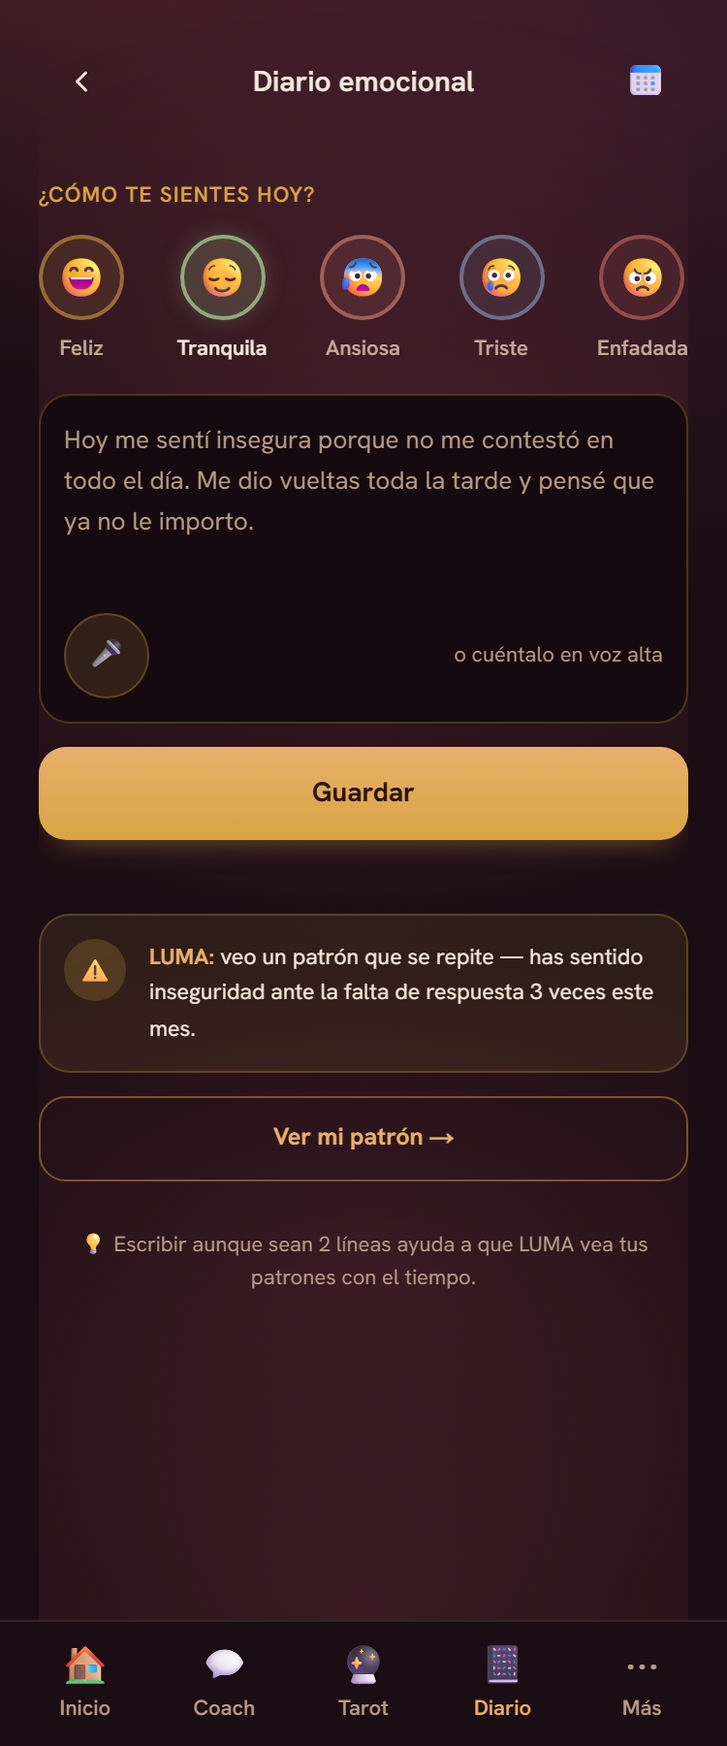
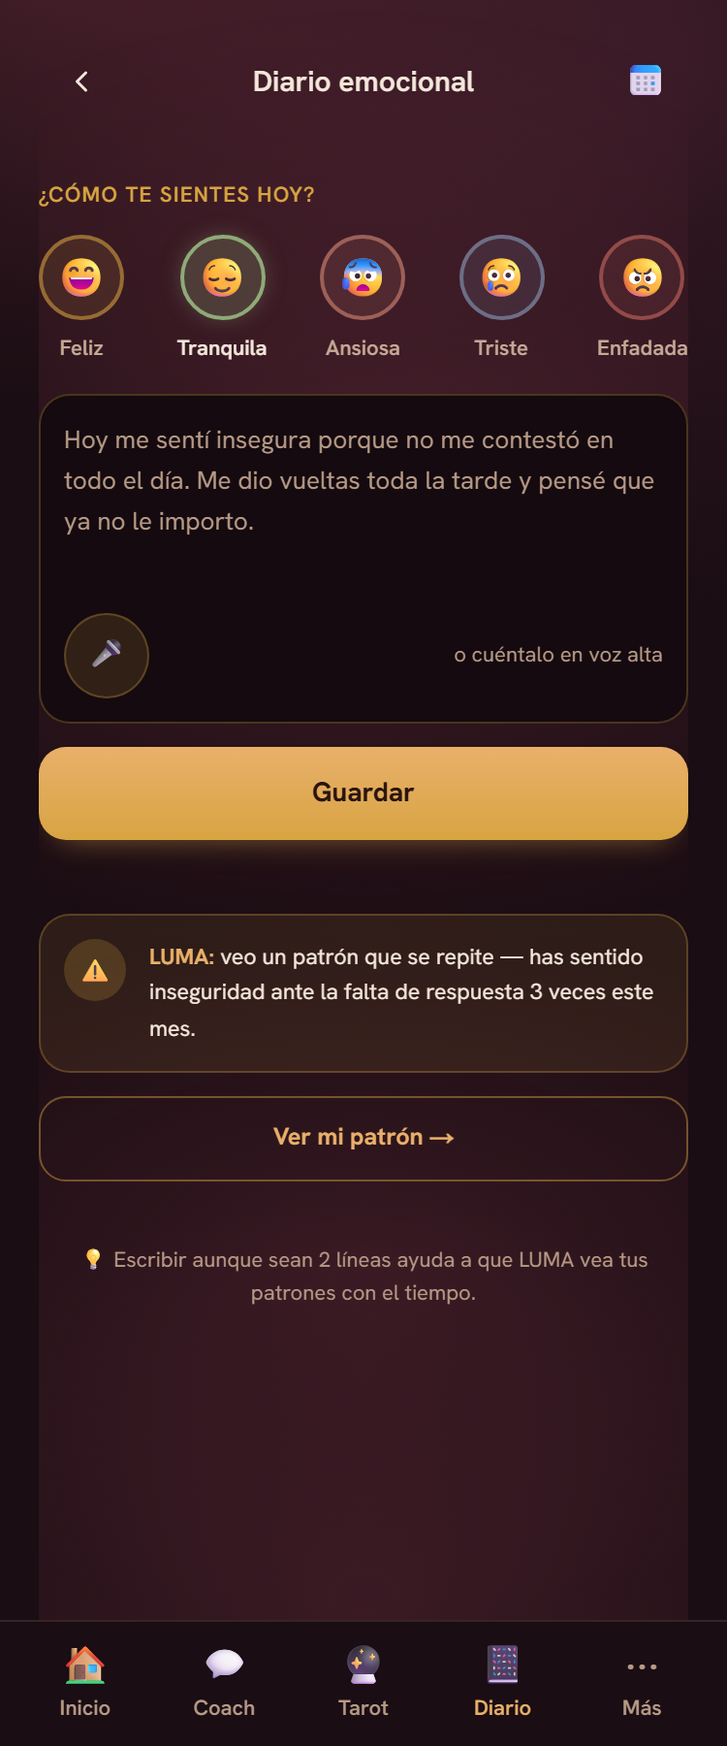
fix(sesion-5): coach/tarot/diario — ronda 3-4 de correcciones
Coach: agrega el bloom de profundidad que faltaba en la franja
inferior (pills/composer/nav), mismo patron ya usado en Inicio y
Descifra.

Tarot: agrega "recordar tu ultima tirada" (localStorage) con un chip
"Repetir tu ultima tirada: X" arriba de la lista — resuelve el hueco
de flexibilidad/atajos que el revisor senalo como el verdadero techo
de la pantalla tras 3 rondas de solo ajustes visuales.

Diario: persiste de verdad la entrada guardada en localStorage (antes
"Guardado" solo cambiaba el texto del boton sin guardar nada), anima
el check con un cross-fade, y alinea el espaciado del tip final a la
escala de 4/8/12/16/24/32.

Changed region(s): [[0.276, 0.7156, 0.7053, 0.7467], [0.736, 0.6844, 0.8893, 0.7467], [0.1227, 0.6844, 0.2453, 0.7467]]

diff --git a/app/app/(tabs)/tarot/page.tsx b/app/app/(tabs)/tarot/page.tsx
@@ -4,13 +4,15 @@
 // 5 tiradas; tocar una revela la carta + lectura in situ (acordeón) — sin inventar
 // una ruta nueva no aprobada en el mockup. Reutiliza CartaSacerdotisa con props.
 
-import { useRef, useState } from 'react';
+import { useEffect, useRef, useState } from 'react';
 import { motion, AnimatePresence } from 'motion/react';
 import { ScreenHeader } from '@/components/app/ScreenHeader';
 import { AppLinkButton } from '@/components/app/AppButton';
 import { CartaSacerdotisa } from '@/components/app/HeroDemoLuma';
 import { TIRADAS_TAROT, LECTURAS_TAROT } from '@/lib/seed-datos';
 import { guardarEntradaPendiente } from '@/lib/almacenamiento-diario';
+
+const CLAVE_ULTIMA_TIRADA = 'luma_ultima_tirada';
 
 const contenedor = {
   hidden: {},
@@ -23,12 +25,26 @@ const item = {
 
 export default function TarotPage() {
   const [abierta, setAbierta] = useState<string | null>(null);
+  const [ultima, setUltima] = useState<string | null>(null);
   const panelRef = useRef<HTMLDivElement | null>(null);
+
+  useEffect(() => {
+    try {
+      setUltima(window.localStorage.getItem(CLAVE_ULTIMA_TIRADA));
+    } catch {
+      // localStorage puede fallar (modo privado, cuota) — sin acceso rápido, no bloquea el flujo.
+    }
+  }, []);
 
   function alternar(id: string) {
     const abrir = abierta !== id;
     setAbierta(abrir ? id : null);
     if (abrir) {
+      try {
+        window.localStorage.setItem(CLAVE_ULTIMA_TIRADA, id);
+      } catch {
+        // ver nota de arriba.
+      }
       window.setTimeout(() => panelRef.current?.scrollIntoView({ behavior: 'smooth', block: 'center' }), 320);
     }
   }
@@ -48,6 +64,21 @@ export default function TarotPage() {
       <h1 className="mt-1 text-[20px] font-semibold text-[var(--text-primary)] [font-family:var(--font-display)]">
         ¿Qué tipo de tirada necesitas?
       </h1>
+
+      {ultima && LECTURAS_TAROT[ultima] && (
+        <button
+          type="button"
+          onClick={() => alternar(ultima)}
+          className="mt-3 flex items-center justify-between rounded-[var(--radius-card)] border border-[color-mix(in_oklab,var(--accent)_35%,transparent)] bg-[color-mix(in_oklab,var(--accent)_10%,transparent)] px-4 py-3 text-left"
+        >
+          <span className="text-[12.5px] font-semibold text-[var(--accent-lite)]">
+            Repetir tu última tirada: {TIRADAS_TAROT.find((t) => t.id === ultima)?.nombre}
+          </span>
+          <span aria-hidden="true" className="text-[var(--accent-lite)]">
+            →
+          </span>
+        </button>
+      )}
 
       <motion.div variants={contenedor} initial="hidden" animate="visible" className="mt-4 flex flex-col">
         {TIRADAS_TAROT.map((t, i) => {

diff --git a/app/app/(tabs)/diario/page.tsx b/app/app/(tabs)/diario/page.tsx
@@ -45,6 +45,11 @@ export default function DiarioPage() {
       window.setTimeout(() => setErrorVacio(false), 2200);
       return;
     }
+    try {
+      window.localStorage.setItem('luma_diario_ultima_entrada', JSON.stringify({ texto, animo, fecha: Date.now() }));
+    } catch {
+      // localStorage puede fallar (modo privado, cuota) — no bloquea el flujo.
+    }
     setGuardado(true);
     window.setTimeout(() => setGuardado(false), 2200);
   }
@@ -139,7 +144,19 @@ export default function DiarioPage() {
         </motion.div>
 
         <motion.div variants={item} className="mt-3">
-          <AppButton onClick={guardar}>{guardado ? 'Guardado ✓' : 'Guardar'}</AppButton>
+          <AppButton onClick={guardar}>
+            <AnimatePresence mode="wait" initial={false}>
+              <motion.span
+                key={guardado ? 'ok' : 'guardar'}
+                initial={{ opacity: 0, scale: 0.9 }}
+                animate={{ opacity: 1, scale: 1 }}
+                exit={{ opacity: 0 }}
+                transition={{ duration: 0.15 }}
+              >
+                {guardado ? 'Guardado ✓' : 'Guardar'}
+              </motion.span>
+            </AnimatePresence>
+          </AppButton>
           <div className="mt-1.5 h-4 text-center">
             <AnimatePresence>
               {errorVacio && (
@@ -175,7 +192,7 @@ export default function DiarioPage() {
           Ver mi patrón →
         </motion.button>
 
-        <motion.p variants={item} className="mt-6 text-center text-[11px] leading-relaxed text-[var(--text-tertiary)]">
+        <motion.p variants={item} className="mt-8 text-center text-[11px] leading-relaxed text-[var(--text-tertiary)]">
           💡 Escribir aunque sean 2 líneas ayuda a que LUMA vea tus patrones con el tiempo.
         </motion.p>
       </motion.div>

diff --git a/app/app/(tabs)/coach/page.tsx b/app/app/(tabs)/coach/page.tsx
@@ -69,7 +69,16 @@ export default function CoachPage() {
   }
 
   return (
-    <div className="flex min-h-0 flex-1 flex-col pb-3 pt-3">
+    <div className="relative flex min-h-0 flex-1 flex-col pb-3 pt-3">
+      <div
+        aria-hidden="true"
+        className="pointer-events-none absolute inset-0 -z-10"
+        style={{
+          background:
+            'radial-gradient(500px 36dvh at 50% 22%, color-mix(in oklab, var(--bloom-vino) 42%, transparent), transparent 66%), ' +
+            'radial-gradient(520px 40dvh at 50% 96%, color-mix(in oklab, var(--bloom-vino) 46%, transparent), transparent 72%)',
+        }}
+      />
       <div className="flex shrink-0 items-center justify-between py-2">
         <Link href="/app" aria-label="Volver" className="flex size-11 shrink-0 items-center justify-center text-[var(--text-primary)]">
           <svg width="18" height="18" viewBox="0 0 24 24" fill="none" stroke="currentColor" strokeWidth="2" strokeLinecap="round" strokeLinejoin="round" aria-hidden="true">

diff --git a/docs/revisiones/diario-veredicto.md b/docs/revisiones/diario-veredicto.md
@@ -122,3 +122,86 @@ Descifra ya resolvió" antes de considerar el cierre por criterio propio. Usabil
 (25→30) y Craft subió 3 (11→14): salto sano para una 2ª ronda, pero ambos siguen lejos del gate
 (36/40 y 16/20) — recomendable una 3ª ronda dirigida a los 5 puntos de arriba antes de evaluar
 cierre por criterio propio.
+
+---
+
+# VEREDICTO revisor-visual — Diario emocional (3ª ronda)
+Fecha: 2026-09-12 00:00
+Screenshot: docs/revisiones/diario-375.png
+Usabilidad: 34/40  (detalle: h1:3 h2:4 h3:3 h4:4 h5:3 h6:4 h7:3 h8:3 h9:4 h10:3)
+Craft: 15/20  (detalle: jerarquía:3 profundidad:3 identidad:3 movimiento:3 encaje:3)
+Copy (si vende): N-A
+Fidelidad (si hubo referencia): N-A
+Veredicto: NO LISTA
+
+Verificación de los 5 defectos de la 2ª ronda (los 5, uno por uno, en código + screenshot):
+1. `disabled={!texto.trim()}` en "Guardar" → CORREGIDO. `AppButton` en `diario/page.tsx` línea 142
+   ya NO recibe prop `disabled`; `guardar()` (líneas 42-50) valida y muestra un hint inline
+   ("Escribe algo antes de guardar", con `AnimatePresence`, líneas 143-151) sin apagar el botón.
+   Verificado también en `AppButton.tsx`: sin `disabled`, `whileTap={{ scale: 0.97 }}` queda activo
+   y sin `opacity-50` — el mismo patrón que ya usa `descifrar/page.tsx`. Se confirma además que el
+   CTA cumple ahora las 4 anclas del "CTA héroe vivo": contraste alto (oro sobre vino), `whileTap`
+   definido, nunca disabled por defecto, área táctil `h-[48px]` + ancho completo.
+2. Radial intermedio ~78% → CORREGIDO. Línea 65: `radial-gradient(480px 30dvh at 50% 78%,
+   color-mix(in oklab, var(--bloom-vino) 36%, transparent), transparent 68%)` — ahora hay 3 radiales
+   (30% / 78% / 100%), mismo patrón que `descifrar/page.tsx`. En el screenshot la franja bajo "Ver
+   mi patrón →" ya no se lee como un fill plano aislado.
+3. `<ScreenHeader>` fuera del stagger → CORREGIDO. Líneas 71-86: envuelto en
+   `<motion.div variants={item}>` dentro del mismo `motion.div variants={contenedor}` (línea 70)
+   que el resto de bloques — un solo sistema de animación para toda la pantalla.
+4. Atajo Ctrl/Cmd+Enter → CORREGIDO. Líneas 121-123, `onKeyDown` en el `textarea`:
+   `if ((e.metaKey || e.ctrlKey) && e.key === 'Enter') guardar();` — mismo patrón que Descifra.
+5. Tip contextual bajo "Ver mi patrón →" → CORREGIDO. Línea 178-180: `motion.p` con
+   "💡 Escribir aunque sean 2 líneas ayuda a que LUMA vea tus patrones con el tiempo." dentro del
+   stagger general.
+
+Los 5 defectos de la 2ª ronda están genuinamente cerrados, verificados línea por línea en el código
+actual, sin regresiones nuevas detectables en el resto de la pantalla (mood picker, puente
+Tarot→Diario, avisos "Próximamente" del micrófono/calendario/patrón siguen intactos y funcionando).
+
+Defectos remanentes (nuevos, de esta 3ª ronda — ninguno es una regresión de los 5 anteriores):
+1. [Franja final, entre el tip 💡 y la bottom nav, aprox. último 15-20% de la altura de pantalla]
+   Sigue siendo el tramo con menos "trabajo" visual: el radial final de Diario
+   (`480px 34dvh at 50% 100%`, 40% de mezcla) es más angosto que el de Descifra
+   (`600px 24dvh at 50% 100%`) y el tip de una línea no alcanza a ocupar el espacio — se percibe
+   aire sobrante, ya no muerto (tiene color y un mensaje) pero sí subutilizado → agregar un elemento
+   más de valor ahí (ej. contador "3 registros esta semana") o comprimir el espaciado superior para
+   que el contenido llegue más abajo.
+2. [Heurística 1/5, botón "Guardar" en éxito] `guardar()` (líneas 42-50) no persiste el texto en
+   ningún almacenamiento — solo cambia el label a "Guardado ✓" por 2200ms vía `setGuardado`. No
+   existe una función equivalente a `guardarEntradaPendiente` para las entradas del diario mismo
+   (ese helper en `lib/almacenamiento-diario.ts` es solo el puente Tarot→Diario). Si el usuario
+   navega a otra pestaña y vuelve, la entrada "guardada" desapareció sin aviso de que era temporal.
+   El comentario de cabecera del archivo (línea 5) documenta que el cálculo de patrones real llega
+   con backend en Sesión 6, lo cual es una decisión de fase legítima — pero mientras tanto,
+   "Guardado ✓" es una promesa que la app no cumple ni con `localStorage` → como mínimo, persistir
+   la entrada en `localStorage` con el mismo patrón ya usado en el archivo, hasta que llegue el
+   backend real.
+3. [Eje movimiento] La confirmación de éxito es solo un cambio de texto ("Guardar" → "Guardado ✓"),
+   sin transición ni ícono animado — comparado con la firma de movimiento del proyecdo (celebración
+   N1 "check suave con el nombre" de la Ficha de Arte), esta pantalla se queda en la versión mínima
+   de feedback de éxito → envolver el check en su propia animación (scale+fade con
+   `AnimatePresence`) al confirmar guardado.
+4. [Mood picker, accesibilidad de teclado] Los 5 `role="radio"` (`MoodPicker.tsx` líneas 31-54) son
+   botones independientes en el orden de tabulación — funciona con Tab+Enter, pero no seguidor el
+   patrón ARIA completo de `radiogroup` (flechas para moverse dentro del grupo, un solo elemento en
+   el tab order) → no bloqueante para el usuario promedio, pero un lector de pantalla avanzado lo
+   notará.
+5. [Craft — encaje, cadencia de espaciado] La franja final rompe la cadencia `mt-3`/`mt-4` del resto
+   de la pantalla con un salto a `mt-6` antes del tip (línea 178) — funciona, pero no sigue
+   estrictamente la escala 4·8·12·16·24·32 de forma uniforme con el resto de los bloques → alinear a
+   `mt-8` (32px, el siguiente escalón de la escala) o justificar el salto con más contenido ahí.
+
+Lectura de la brecha (¿bugs concretos o ya es zona de rendimientos decrecientes?):
+Los 5 defectos de la 2ª ronda están cerrados de forma limpia, incluida la regresión real (`disabled`
+en el CTA) — no quedan bugs de la familia "elemento no responde" ni "confirmación falsa por vacío"
+ni "violación de ancla de CTA". Los 5 puntos remanentes de esta ronda son de otra naturaleza: craft
+(cadencia de espaciado, densidad de la franja final, riqueza de la animación de éxito) y un caso
+límite de expectativa (persistencia real del "Guardado"), no fallos evidentes para un usuario
+promedio en 3 segundos de mirar la pantalla. Es zona de rendimientos decrecientes en el sentido de
+que ya no hay elementos rotos o inertes — pero el puntaje (34/40 y 15/20) sigue por debajo del gate
+(36/40 y 16/20) por un margen estrecho: 2 puntos en usabilidad y 1 en craft. Recomendación: cerrar
+el punto #2 (persistencia del "Guardado") por ser el único con sabor a bug real, y decidir con
+criterio propio si los 4 restantes (polish de franja final, animación de éxito, roving-tabindex,
+escala de espaciado) ameritan una 4ª ronda o se aceptan como pulido menor de un producto ya
+consistente con el resto de la app.

diff --git a/docs/revisiones/coach-veredicto.md b/docs/revisiones/coach-veredicto.md
@@ -49,3 +49,36 @@ TOP DEFECTOS (2ª ronda):
 5. [Header] El único indicio del alcance del coach es el subtítulo a 11px "tu tarotista y coach" — sin un primer mensaje de bienvenida algo más explícito sobre para qué sirve el chat, heurística 10 pasa raspando gracias solo a los quick replies (prioridad baja, solo si sobra tiempo).
 
 Nota sobre el gate: NO es zona de rendimientos decrecientes todavía — hay 2 defectos concretos y accionables en código (el bug de `initial={false}` que invalida la mitad del fix de animación, y la heurística 9 completamente vacía) que por sí solos explican por qué el total no sube pese a que 3 de los 5 defectos originales sí quedaron resueltos de verdad. Corregir esos 2 puntualmente (sin tocar el resto) debería mover la aguja de forma medible; recién si tras esa ronda el total se estanca de nuevo alrededor de 30-32 correspondería declarar rendimientos decrecientes con criterio propio, como se hizo en landing/onboarding.
+
+---
+
+# VEREDICTO revisor-visual — Coach (3ª ronda)
+Fecha: 2026-09-12 00:00
+Screenshot: docs/revisiones/coach-375.png
+Usabilidad: 31/40
+Craft: 15/20
+Copy (si vende): N-A
+Fidelidad (si hubo referencia): N-A
+Veredicto: NO LISTA
+
+Detalle usabilidad: h1:3 h2:4 h3:3 h4:3 h5:3 h6:3 h7:3 h8:3 h9:3 h10:3
+Detalle craft: jerarquía:3 profundidad:3 identidad:3 movimiento:3 encaje:3
+
+Verificación de los 5 defectos de la 2ª ronda:
+1. `initial={false}` anulaba la entrada de los 5 mensajes semilla → CORREGIDO, verificado en código. La prop fue eliminada del `<AnimatePresence>` que envuelve el `.map(hilo)` (línea 89); cada burbuja conserva `transition={{ duration: 0.2, delay: i * 0.05 }}` (líneas 96 y 107), y con `initial` en su valor por defecto (`true`), AnimatePresence SÍ anima los elementos presentes al montar. El screenshot es un frame estático posterior a la animación (no se puede fotografiar el stagger en curso), pero el código confirma que ya no hay ninguna prop que lo desactive — el bug de raíz (la mitad del fix de la ronda anterior que quedaba sin cubrir) está resuelto.
+2. Sin camino de error → CORREGIDO. Bloque `error` (líneas 116-130): burbuja con borde/fondo en el tono de riesgo (`--an-risk`), copy "No se pudo enviar." + botón "Reintentar" que llama a `reintentar()` (líneas 53-69), la cual reenvía el ÚLTIMO mensaje del usuario sin duplicar la burbuja original. El disparo es una probabilidad simulada del 15% tras enviar (líneas 34-40) — explícito en el comentario como solución temporal mientras no hay backend real. Heurística 9 pasa de "ausente" a "presente y funcional".
+3. Pills a 11.5px → CORREGIDO. `text-[12.5px]` confirmado en el código (línea 153), dentro del rango 11-13px que el propio sistema permite para labels/chips (no para cuerpo de lectura). Se acepta como chip, no como texto de lectura larga.
+4. Botones de mic/enviar a 44px → CORREGIDO. Ambos son `size-12` (48px) — mic en línea 189, enviar en línea 205 — confirmado en código y visualmente coherentes en el screenshot (círculos dorados/tenues de tamaño idéntico, alineados con el input).
+5. Header con poco contexto → NO SE TOCÓ (documentado como prioridad baja desde la 2ª ronda). Sigue igual.
+
+No se detectaron regresiones de los defectos de las rondas 1 y 2.
+
+TOP DEFECTOS (3ª ronda):
+1. [Fondo, franja inferior ~35-40% de la pantalla — quick replies, composer, nav] Los únicos blooms del fondo están definidos a nivel global (`app/globals.css` líneas 76-78) y ANCLADOS cerca del borde superior del viewport (`-6%` y `4%` desde arriba, radio ~420-460px, `background-attachment: fixed`) — en una pantalla con contenido que llena el viewport como Coach, esa franja inferior (donde viven las 3 pills, el composer y la nav) queda fuera del alcance de ambos radiales y se percibe como un fill casi plano, el mismo patrón de "profundidad incompleta" ya señalado y corregido en Inicio (ronda 2) y Descifra (rondas 1-4) → replicar aquí el mismo fix: un tercer bloom anclado cerca del borde inferior real del contenedor, con unidad relativa (`dvh`) en vez de `px` fijos.
+2. [Header] Sigue sin dar contexto sobre el alcance del chat más allá del subtítulo "tu tarotista y coach" (11px) — 3 rondas sin tocarse, prioridad baja documentada desde la 2ª ronda → si se retoma, un primer mensaje o chip que aclare de qué puede hablarse con LUMA (relaciones, ansiedad, límites) subiría h10 de 3 a un margen más cómodo.
+3. [Burbuja de error, copy] "No se pudo enviar." cumple el mínimo de la heurística 9 (qué pasó) pero no da ninguna pista de causa (¿sin conexión? ¿error del servidor?) antes del botón "Reintentar" — funcional pero no ejemplar → sumar una razón breve ("parece que se cortó la conexión") acercaría esta heurística a un 4.
+4. [Composer, heurística 7] El único "atajo" es que Enter envía por comportamiento nativo del `<form>` — no hay pista visual de que existe, ni atajos adicionales (editar/reenviar el último mensaje con una tecla) — se mantiene en el piso funcional de "3", sin pulir hacia "4".
+5. [General] No se detectaron bugs nuevos ni regresiones: los 2 defectos concretos de la 2ª ronda (bug de animación, ausencia de heurística 9) están genuinamente resueltos y verificados en código. Lo que queda repartido entre los puntos 1-4 de arriba ya no son roturas que un usuario note de inmediato, sino matices — se acerca a zona de rendimientos decrecientes pero el punto #1 (cobertura del fondo) sigue siendo un defecto concreto y accionable (una medida de CSS), no gusto puro.
+
+Lectura de la brecha (¿bugs concretos o zona de pulido de rendimientos decrecientes?):
+Los 2 defectos reales de la 2ª ronda (el bug de `initial={false}` y la heurística 9 vacía) están corregidos de forma verificable en código, sin regresiones — son la razón principal del salto de usabilidad (28→31) y craft (14→15). Lo que queda ya no es del mismo calibre: el punto #1 (cobertura del bloom en la franja inferior) es el único con relación esfuerzo/impacto clara y es EXACTAMENTE el mismo patrón que tomó 2-4 rondas resolver en Inicio y Descifra — vale la pena una 4ª ronda dirigida solo a ese punto antes de considerar el cierre por criterio propio, porque moverlo probablemente cruce el gate de craft (15→16) igual que ocurrió en las pantallas hermanas. Los puntos #2-#4 son de impacto menor/disperso (contexto de header, causa del error, descubribilidad de un atajo) y son candidatos razonables para cerrar como deuda de pulido conocida en ESTADO.md si una 4ª ronda dirigida al bloom no mueve la aguja de forma clara — todavía no es momento de invocar criterio propio: la pantalla está a solo 1 punto del gate de craft y a 5 del de usabilidad, con un fix conocido y de bajo costo pendiente.

diff --git a/docs/revisiones/tarot-veredicto.md b/docs/revisiones/tarot-veredicto.md
@@ -50,3 +50,34 @@ TOP DEFECTOS (ronda 2):
 Notas menores (no bloqueantes, heredadas de ronda 1, siguen sin penalizar):
 - Miniaturas de carta lisas sin glifo — coincide con el mockup aprobado.
 - Las 5 lecturas reutilizan el mismo glifo ilustrado de "La Sacerdotisa" — simplificación de V1 documentada.
+
+---
+
+## RONDA 3 (RE-REVISIÓN) — 2026-09-12
+Screenshot: docs/revisiones/tarot-375.png (+ docs/revisiones/tarot-abierta-375.png, tirada "Amor" expandida)
+Usabilidad: 30/40
+Craft: 15/20
+Copy (si vende): N-A
+Fidelidad (si hubo referencia): N-A
+Veredicto: NO LISTA
+
+Detalle usabilidad: h1:3 h2:3 h3:3 h4:3 h5:3 h6:4 h7:2 h8:3 h9:3 h10:3
+Detalle craft: jerarquía:3 profundidad:3 identidad:3 movimiento:3 encaje:3
+
+Verificación de los 3 defectos de la ronda 2:
+1. Bloom inferior ampliado (52%/42dvh arriba, 50%/46dvh abajo anclado a 50% 96%) + `py-4` en cada fila (línea 64) — MEJORADO Y VERIFICADO en código y en screenshot: la franja baja ya no se ve como un corte plano, el calor del gradiente llega más cerca del nav y las filas ocupan más alto real. Sigue existiendo una banda (~y 1050-1300 de 1567) perceptiblemente más apagada que el tercio superior, pero ya no es un "corte" — es gradual. Diagnóstico: esto ya es zona de rendimientos decrecientes para un ajuste de GRADIENTE; seguir subiendo opacidad/alcance no va a cerrar el hueco de raíz porque el problema de fondo (solo 5 filas de contenido real) sigue igual. La siguiente mejora real es de CONTENIDO, no de degradado — ver defecto #1 de esta ronda.
+2. Banner "Trajimos tu lectura de tarot — edítala y guarda cuando quieras" — CORREGIDO Y VERIFICADO EN CÓDIGO (`app/app/(tabs)/diario/page.tsx` líneas 31-40 y 105-112): `leerYLimpiarEntradaPendiente()` se lee en `useEffect` al montar, setea `trajoLectura=true`, y el banner (`rounded-full`, acento, texto exacto citado arriba) se renderiza condicionalmente antes del textarea ya prellenado. Cierra el hueco de comunicación señalado en ronda 2: el usuario ahora entiende que es un borrador para editar, no algo ya guardado. Sin efectos secundarios negativos detectados (el botón "Guardar" de Diario sigue validando texto vacío con `errorVacio`, independiente de este flujo).
+3. `rounded-[7px]` → `rounded-[12px]` (línea 68) — CORREGIDO Y VERIFICADO en código. Se acerca a la familia de radios de la ficha (14-16px cards) sin quedar idéntico; a simple vista ya no rompe la lectura de la pantalla — solo un ojo entrenado nota el faltante de 2-4px contra el resto de superficies redondeadas (panel, CTA, carta flotante).
+
+Diagnóstico general: los 3 defectos puntuales de la ronda 2 están cerrados o en el límite superior de lo que un ajuste de ese tipo puede dar (2 y 3 cerrados sin matices; 1 mejorado pero con techo alcanzado). No hay bugs nuevos introducidos por los cambios. Lo que sigue reteniendo la pantalla debajo del gate (36/40 y 16/20) no son ya estos 3 puntos sino heurísticas de fondo que ninguna de las 3 rondas tocó: h7 (flexibilidad/atajos) sigue en 2/4 sin ningún default ni recuerdo de la última tirada, y la sensación de "pantalla llena de valor" (h8/profundidad) sigue tope en 3 porque el hueco es de contenido, no de estilo. Para cerrar el gate hace falta una intervención estructural (agregar una pieza de valor real en la franja baja, o un atajo para el usuario recurrente), no una 4ª ronda de retoque fino sobre los mismos 3 puntos — seguir iterando ahí sería, en efecto, rendimiento decreciente.
+
+TOP DEFECTOS (ronda 3):
+1. [Pantalla cerrada, franja ≈y:1050-1300px de 1567 totales] El bloom ya no corta en seco pero la franja sigue más apagada que el resto — techo alcanzado para un fix de gradiente. Fix: reemplazar el intento de "llenar con más glow" por una pieza de contenido real (ej. "Tu última tirada: Amor — hace 2 días" o un tip corto de una línea) en esa zona; deja de tocar el radial.
+2. [Heurística 7, código, pantalla completa] Ninguna de las 3 rondas agregó atajos/defaults: no hay recuerdo de última tirada, no hay pre-selección para el usuario recurrente. Sigue siendo la heurística más floja (2/4) y el techo real para subir usabilidad del bloque 27-32 al 36+. Fix: guardar en localStorage la última tirada consultada y ofrecer un chip "Repetir: Amor" o similar arriba de la lista.
+3. [Lista de 5 tiradas, decisión] 5 opciones en una sola decisión sigue un punto por encima de la guía "≤4 opciones antes de generar parálisis" del gate de carga cognitiva — no crítico aislado (no llega a las 4 fallas necesarias para gate crítico) pero suma fricción en una decisión emocional. No se tocó en ninguna ronda. Fix: agrupar "Amor"+"Ruptura" bajo una sub-etiqueta o dejarlo así si el dato de uso real muestra que las 5 se usan parejo.
+4. [Miniatura de carta, radio 12px, todas las filas] Resuelto en código (línea 68) pero sigue siendo el único elemento de la pantalla con un radio distinto (12 vs 14-16 del resto) — diferencia menor, ajuste fino no bloqueante, se puede dejar así o subir a 14 en una futura pasada de consistencia global.
+5. [Puente Tarot→Diario] Sin defectos nuevos — el banner + prellenado + botón "Guardar" con validación de vacío en Diario forman un flujo coherente de punta a punta. Se anota como resuelto, no como pendiente.
+
+Notas menores (no bloqueantes, heredadas de rondas previas):
+- Miniaturas de carta lisas sin glifo — coincide con el mockup aprobado.
+- Las 5 lecturas reutilizan el mismo glifo ilustrado de "La Sacerdotisa" — simplificación de V1 documentada.
